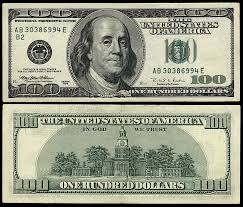
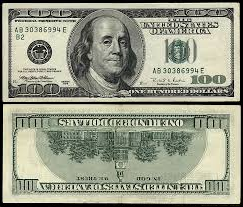
Przyciski A i D ruszają kamerą wokół osi y - docelowo na strzałkach

Changed region(s): [[0.0, 0.4928, 1.0, 1.0]]

diff --git a/Czlowiek.cpp b/Czlowiek.cpp
@@ -35,6 +35,7 @@ void Czlowiek::ZmienStan()
 		if (this->stan >= this->n)
 		{
 			this->stan = 0;
+			this->animacja = false;
 		}
 	}
 }
@@ -55,3 +56,18 @@ int Czlowiek::Getn()
 {
 	return this->n;
 }
+
+bool Czlowiek::GetAnimacja()
+{
+	return this->animacja;
+}
+
+void Czlowiek::SetAnimacja()
+{
+	this->animacja = true;
+}
+
+bool Czlowiek::GetStan()
+{
+	return this->stan;
+}	

diff --git a/Czlowiek.h b/Czlowiek.h
@@ -28,9 +28,13 @@ class Czlowiek
 		void ZmienStan();
 		void ZacznijAnimacje();
 		int Getn();
+		bool GetAnimacja();
+		void SetAnimacja();
+		bool GetStan();
 	
 	private:
 		vector<Model> modele;
 		int stan;
 		int n;
+		bool animacja;
 };

diff --git a/stdafx.h b/stdafx.h
@@ -11,6 +11,7 @@
 #include <tchar.h>
 #include <stdlib.h>
 #include <vector>
+#include <cmath>
 
 #include "GL/glew.h"
 #include "GL/glut.h"
